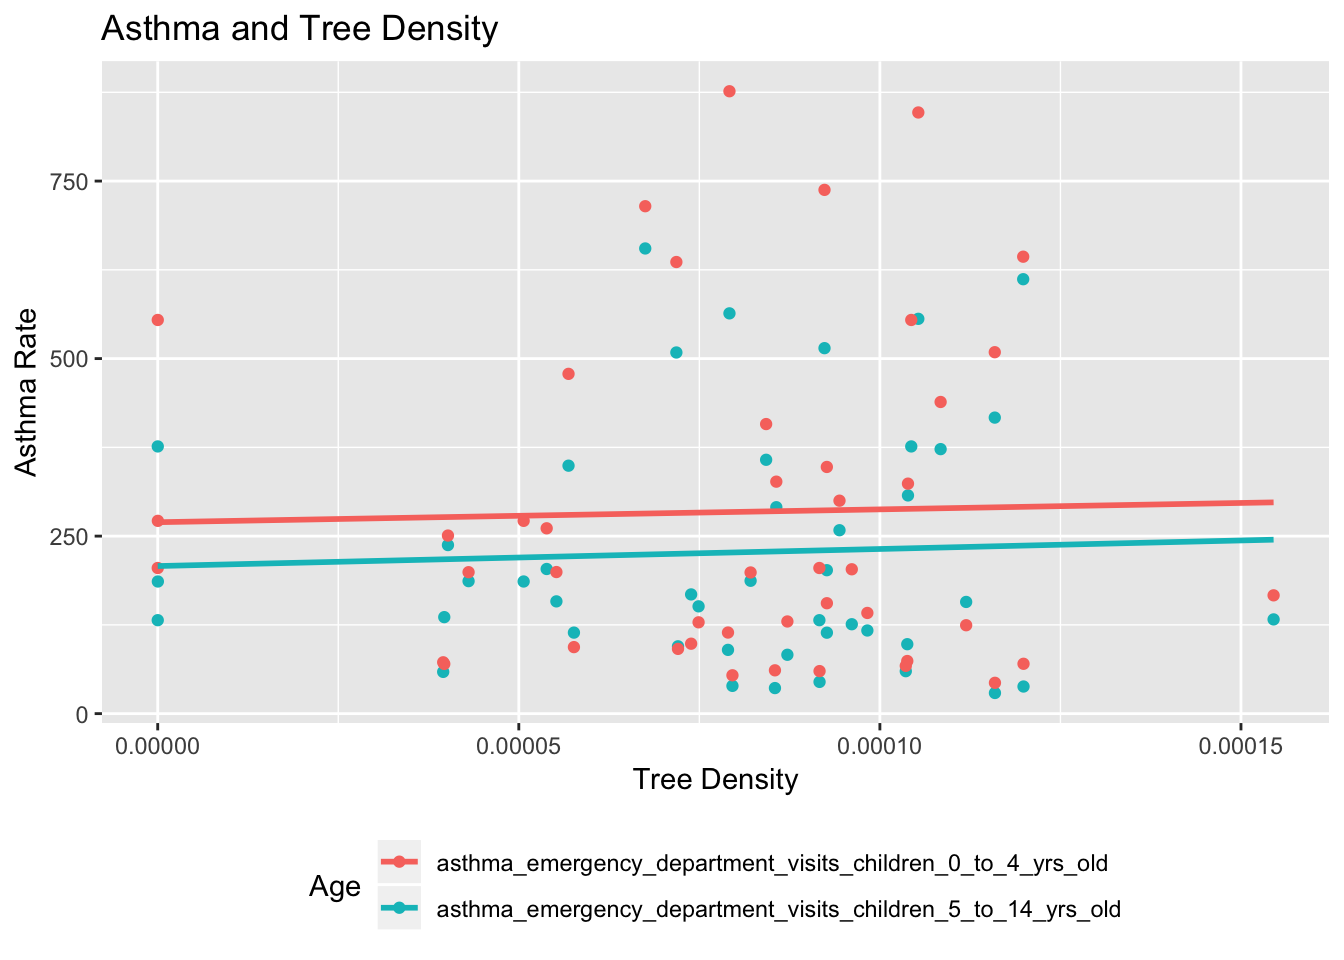
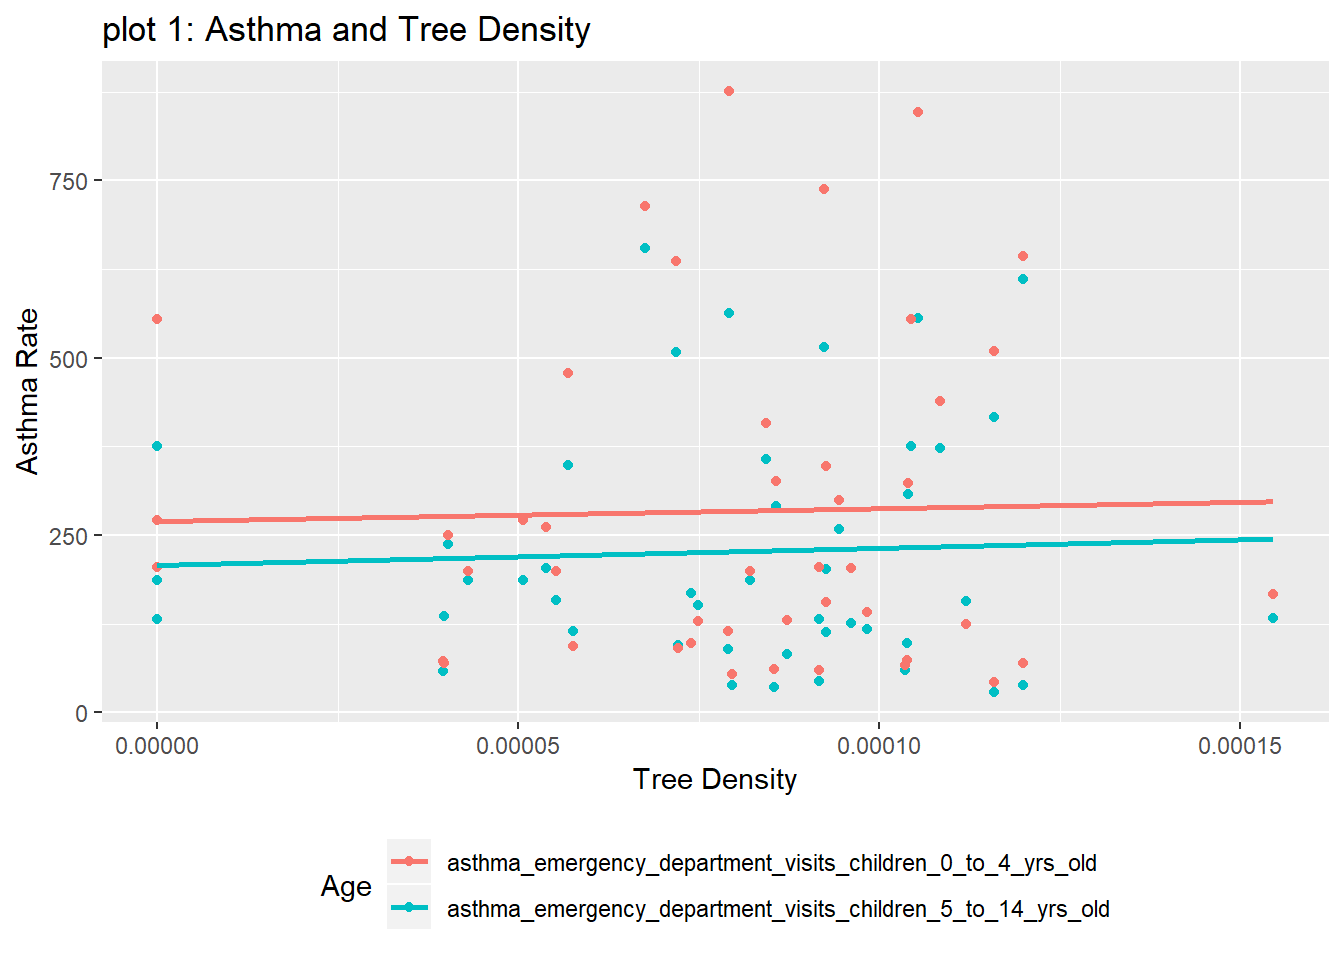
change the report

diff --git a/finalreport.html b/finalreport.html
@@ -9,7 +9,7 @@
 <meta name="generator" content="pandoc" />
 
 
-<meta name="author" content="Jingwei Ren" />
+<meta name="author" content="Jingwei Ren, Baoyi Shi, Xinyao Wu, Qi Shao" />
 
 
 <title>final report</title>
@@ -218,15 +218,12 @@ $(document).ready(function () {
 
 
 <h1 class="title toc-ignore">final report</h1>
-<h4 class="author"><em>Jingwei Ren</em></h4>
+<h4 class="author"><em>Jingwei Ren, Baoyi Shi, Xinyao Wu, Qi Shao</em></h4>
 <h4 class="date"><em>12/2/2018</em></h4>
 
 </div>
 
 
-<div id="final-report" class="section level2">
-<h2>final report</h2>
-</div>
 <div id="motivation" class="section level2">
 <h2>motivation</h2>
 <p>Over the past decades, the prevalence of asthma has increased in the urban areas with the potential effects of airflow, air quality and production of aeroallergens. Asthma is the most prevalent chronic disease among children. The disease can make breathing difficult and trigger coughing, wheezing and shortness of breath by the presence of extra mucus in narrow airways. Data on the influence of green spaces on asthma in children are inconstant. Previous research that did in Kaunas, Lithuania showed a positive association between the level of the surrounding greenness and risk of asthma in children. Their study suggested that high exposure to green spaces may increase the risk of allergic conditions and the prevalence of asthma through the effect of pollen. Another ecological design study did in New York City observed an inverse association between street tree density and the prevalence of asthma. Others have reported no relationships between greenery densities, canopy cover and asthma.</p>
@@ -246,23 +243,23 @@ $(document).ready(function () {
 <p>Our GitHub repo of the steps in this analysis can be found <a href="https://github.com/Adashaw77/p8105_final_project/blob/master/final.Rmd">here</a>.</p>
 <p>The original tree data includes variables: zip code of each neighborhoods, boroname, tree’s diameter, status(alive and dead), health, spc_common (tree species) and tree’s latitude and longitude.</p>
 <p>The asthma dataset has a total 16 variables and it includes important variables like neighborhoods, asthma rate for children from 0 to 4 years old and children from 5 to 14 years old, so2 level, poverty percent, percent of the children under 5 years living in the poverty areas, tree’s density and total asthma rate.</p>
-<div id="source" class="section level3">
-<h3>source</h3>
+<div id="data-source" class="section level3">
+<h3>Data Source</h3>
 <p>All data about asthma, poverty and air qualities was retrieved from NYC health (<a href="http://a816-dohbesp.nyc.gov/IndicatorPublic/PublicTracking.aspx" class="uri">http://a816-dohbesp.nyc.gov/IndicatorPublic/PublicTracking.aspx</a>)</p>
 <p>All data related to trees was retrieved from NYC open data (<a href="https://data.cityofnewyork.us/Environment/2015-Street-Tree-Census-Tree-Data/pi5s-9p35" class="uri">https://data.cityofnewyork.us/Environment/2015-Street-Tree-Census-Tree-Data/pi5s-9p35</a>)</p>
 <p>All neighborhood data was retrieved from (<a href="http://www.infoshare.org/misc/UHF.pdf" class="uri">http://www.infoshare.org/misc/UHF.pdf</a>)</p>
 </div>
 <div id="scraping-method-cleaning" class="section level3">
-<h3>scraping method, cleaning</h3>
+<h3>Scraping method, cleaning</h3>
 <pre class="r"><code>library(tidyverse)</code></pre>
-<pre><code>## ── Attaching packages ─────────────────────────────────────────────────── tidyverse 1.2.1 ──</code></pre>
-<pre><code>## ✔ ggplot2 3.1.0     ✔ purrr   0.2.5
-## ✔ tibble  1.4.2     ✔ dplyr   0.7.8
-## ✔ tidyr   0.8.2     ✔ stringr 1.3.1
-## ✔ readr   1.1.1     ✔ forcats 0.3.0</code></pre>
-<pre><code>## ── Conflicts ────────────────────────────────────────────────────── tidyverse_conflicts() ──
-## ✖ dplyr::filter() masks stats::filter()
-## ✖ dplyr::lag()    masks stats::lag()</code></pre>
+<pre><code>## -- Attaching packages --------------------------------------------------------------------------- tidyverse 1.2.1 --</code></pre>
+<pre><code>## √ ggplot2 3.1.0     √ purrr   0.2.5
+## √ tibble  1.4.2     √ dplyr   0.7.8
+## √ tidyr   0.8.2     √ stringr 1.3.1
+## √ readr   1.1.1     √ forcats 0.3.0</code></pre>
+<pre><code>## -- Conflicts ------------------------------------------------------------------------------ tidyverse_conflicts() --
+## x dplyr::filter() masks stats::filter()
+## x dplyr::lag()    masks stats::lag()</code></pre>
 <pre class="r"><code>library(dplyr)
 library(readr)
 library(ggplot2)
@@ -291,7 +288,7 @@ tree_df = left_join(tree_df, zipcode_uhf42, by = &quot;zipcode&quot;)
 
 mydat = rgdal::readOGR(&quot;./UHF42/UHF_42_DOHMH.shp&quot;)</code></pre>
 <pre><code>## OGR data source with driver: ESRI Shapefile 
-## Source: &quot;/Users/jingweiren/Desktop/p8105/p8105_final_project/UHF42/UHF_42_DOHMH.shp&quot;, layer: &quot;UHF_42_DOHMH&quot;
+## Source: &quot;E:\Master\Data Science\Assignments\Final\p8105_final_project\UHF42\UHF_42_DOHMH.shp&quot;, layer: &quot;UHF_42_DOHMH&quot;
 ## with 43 features
 ## It has 8 fields</code></pre>
 <pre class="r"><code>area=data.frame(uhf42_code = mydat$UHFCODE,area = mydat$SHAPE_Area) %&gt;%
@@ -354,7 +351,7 @@ final_df = left_join(asthma_air_poverty, tree_density_total)</code></pre>
 <div id="asthma-visualizations" class="section level2">
 <h2>Asthma Visualizations</h2>
 <div id="step-one" class="section level3">
-<h3>step one</h3>
+<h3>Step one</h3>
 <p>We made a plot showing the assoication between tree density and astham rate.</p>
 <pre class="r"><code>#plot between asthma and tree
 final_asthma_df = gather(final_df, key = asthma_age, value = rate, asthma_emergency_department_visits_children_0_to_4_yrs_old:asthma_emergency_department_visits_children_5_to_14_yrs_old) %&gt;%
@@ -366,24 +363,24 @@ ggplot(final_asthma_df) +
   geom_point(aes(x = tree_density, y = rate, color = asthma_age)) +
    geom_smooth(aes(x = tree_density, y = rate, color = asthma_age), method = &quot;lm&quot;,se = F) +
    labs(
-    title = &quot;Asthma and Tree Density&quot;,
+    title = &quot;plot 1: Asthma and Tree Density&quot;,
     x = &quot;Tree Density&quot;,
     y = &quot;Asthma Rate&quot;
   ) +
    theme(legend.position = &quot;bottom&quot;) +
    guides(color = guide_legend(nrow = 2)) +
    scale_color_hue(name = &quot;Age&quot;)</code></pre>
-<p><img src="finalreport_files/figure-html/unnamed-chunk-4-1.png" width="672" /> This plot showed the relationship between asthma and tree. Visually, there was a positive association between tree density and astham rate.</p>
+<p><img src="finalreport_files/figure-html/unnamed-chunk-4-1.png" width="672" /> This plot 1 showed the relationship between asthma and tree. Visually, there was a positive association between tree density and astham rate.</p>
 </div>
 <div id="step-two" class="section level3">
-<h3>step two</h3>
+<h3>Step two</h3>
 <p>Other factors may also impact the astham rate. We made plots showing the association between astham and air qualities (fine particulate matter (PM2.5), and ambient concentrations of sulfur dioxide (SO2) ) and the association between asthma and poverty rate.</p>
 <pre class="r"><code>#plot between asthma and so2
 ggplot(final_asthma_df) +
    geom_point(aes(x = sulfur_dioxide_so2, y = rate, color = asthma_age))+
    geom_smooth(aes(x = sulfur_dioxide_so2, y = rate, color = asthma_age), method = &quot;lm&quot;, se = F) +
    labs(
-    title = &quot;Asthma and Sulfur Dioxide&quot;,
+    title = &quot;plot 2: Asthma and Sulfur Dioxide&quot;,
     x = &quot;Sulfur Dioxide Average&quot;,
     y = &quot;Asthma Rate&quot;
   ) +
@@ -396,7 +393,7 @@ ggplot(final_asthma_df) +
    geom_point(aes(x = fine_particulate_matter_pm2_5, y = rate, color = asthma_age))+
    geom_smooth(aes(x = fine_particulate_matter_pm2_5, y = rate, color = asthma_age), method = &quot;lm&quot;, se = F) +
    labs(
-    title = &quot;Asthma and PM2.5&quot;,
+    title = &quot;plot 3: Asthma and PM2.5&quot;,
     x = &quot;PM2.5 Average&quot;,
     y = &quot;Asthma Rate&quot;
   ) +
@@ -409,30 +406,30 @@ ggplot(final_asthma_df) +
    geom_point(aes(x = poverty, y = rate, color = asthma_age))+
    geom_smooth(aes(x = poverty, y = rate, color = asthma_age), method = &quot;lm&quot;, se = F) +
    labs(
-    title = &quot;Asthma and Poverty&quot;,
+    title = &quot;plot 4: Asthma and Poverty&quot;,
     x = &quot;Poverty Percent&quot;,
     y = &quot;Asthma Rate&quot;
   ) +
    theme(legend.position = &quot;bottom&quot;) +
    guides(color = guide_legend(nrow = 2)) +
    scale_color_hue(name = &quot;Age&quot;)</code></pre>
-<p><img src="finalreport_files/figure-html/unnamed-chunk-5-3.png" width="672" /> plot1 showed the relationship between asthma rate and so2. plot2 showed the relationship between astham rate rate and pM.25 plot3 showed the relationship between asthma and poverty. Visually, there was a positive association between astham rate and SO2, PM 2.5 and poverty level.</p>
+<p><img src="finalreport_files/figure-html/unnamed-chunk-5-3.png" width="672" /> plot2 showed the relationship between asthma rate and so2. plot3 showed the relationship between astham rate rate and pM.25 plot4 showed the relationship between asthma and poverty. Visually, there was a positive association between astham rate and SO2, PM 2.5 and poverty level.</p>
 </div>
 <div id="step-three" class="section level3">
-<h3>step three</h3>
+<h3>Step three</h3>
 <p>We are interested in seeing whether asthma rate is different between children from 0 to 4 years old and children from 5 to 14 years old in 42 neighborhoods in new york city.</p>
 <pre class="r"><code>#plot between asthma 0-4 and asthma 5-14 in each UHF42
 ggplot(final_asthma_df) +
   geom_bar(aes(x = geo_entity_name, y = rate, fill = asthma_age), stat = &quot;identity&quot;, position = &quot;dodge&quot;) +
    labs(
-    title = &quot;Asthma Rate In Each Entity&quot;,
+    title = &quot;plot 5: Asthma Rate In Each Entity&quot;,
     x = &quot;Entity Name&quot;,
     y = &quot;Asthma Rate&quot;
   ) +
    theme(legend.position = &quot;bottom&quot;, axis.text.x = element_text(angle = 75, hjust = 1)) +
    guides(fill = guide_legend(nrow = 2)) +
    scale_fill_hue(name = &quot;Age&quot;) </code></pre>
-<p><img src="finalreport_files/figure-html/unnamed-chunk-6-1.png" width="672" /> Plot showed that children from 0 to 4 years have higher asthma rate compared to children from 5 to 14 years old.</p>
+<p><img src="finalreport_files/figure-html/unnamed-chunk-6-1.png" width="672" /> Plot 5 showed that children from 0 to 4 years have higher asthma rate compared to children from 5 to 14 years old.</p>
 </div>
 </div>
 <div id="tree-visualizations" class="section level2">
@@ -443,7 +440,7 @@ ggplot(final_asthma_df) +
   geom_point(aes(x = sulfur_dioxide_so2, y = tree_density)) +
   geom_smooth(aes(x = sulfur_dioxide_so2, y = tree_density), method = &quot;lm&quot;, se = F) +
    labs(
-    title = &quot;Tree Density and Sulfur Dioxide&quot;,
+    title = &quot;plot 6: Tree Density and Sulfur Dioxide&quot;,
     x = &quot;Sulfur Dioxide Average&quot;,
     y = &quot;Tree Density&quot;
   ) </code></pre>
@@ -453,14 +450,14 @@ ggplot(final_asthma_df) +
   geom_point(aes(x = fine_particulate_matter_pm2_5, y = tree_density)) +
   geom_smooth(aes(x = fine_particulate_matter_pm2_5, y = tree_density), method = &quot;lm&quot;, se = F) +
    labs(
-    title = &quot;Tree Density and PM2.5&quot;,
+    title = &quot;plot 7: Tree Density and PM2.5&quot;,
     x = &quot;PM2.5 Average&quot;,
     y = &quot;Tree Density&quot;
   ) </code></pre>
-<p><img src="finalreport_files/figure-html/unnamed-chunk-7-2.png" width="672" /> plot 1 showed the association between tree density and so2. plot 2 showed the association between tree density and pm 2.5 Visually, there was a positive association between tree density and air quality factors.</p>
+<p><img src="finalreport_files/figure-html/unnamed-chunk-7-2.png" width="672" /> plot 6 showed the association between tree density and so2. plot 7 showed the association between tree density and pm 2.5 Visually, there was a positive association between tree density and air quality factors.</p>
 </div>
 <div id="statistical-analyses" class="section level2">
-<h2>statistical analyses</h2>
+<h2>Statistical analyses</h2>
 <pre class="r"><code># mlr showing the relationship between asthma rate of kids from 0 to 4 years and tree density, so2 levels, percent of the children under 5 years living in the poverty areas
 summary(lm(asthma_emergency_department_visits_children_0_to_4_yrs_old~tree_density+sulfur_dioxide_so2+children_under_5_years_old_in_poverty,data=final_df)) %&gt;%
   broom::tidy() %&gt;%
@@ -555,7 +552,7 @@ summary(lm(asthma_emergency_department_visits_children_5_to_14_yrs_old~tree_dens
 <p>Based on the multiple linear regression models, all the factors are significant except tree density ( p value is 0.86, 0.64). This indicated that there are associations between asthma rate of kids and so2 and poverty levels.</p>
 </div>
 <div id="additional-analysis" class="section level2">
-<h2>additional analysis</h2>
+<h2>Additional analysis</h2>
 <p>We tested the association between astham rate and all pollutes including ozone, black carbon, PM 2.5, NO, NO2, SO2.</p>
 <pre class="r"><code>#SLR:choose the pollutes associated with asthma
 o3_p1 = summary(lm(asthma_emergency_department_visits_children_0_to_4_yrs_old~ozone_o3, data=final_df))$coefficients[2,4]
@@ -628,8 +625,12 @@ data.frame(Pollute = c(&quot;Ozone&quot;, &quot;Black Carbon&quot;, &quot;PM2.5&
 </tbody>
 </table>
 <pre class="r"><code>#based on p values, we choose SO2</code></pre>
-<p>The result showed that only SO2 had an association with asthma, since the p value is lower than 0.05. All the other air quality factors are not significantly related to children asthma rate. ## Discussion</p>
-<p>Our main goal is to discuss the relationship between tree density in New York city and children asthma rate in 2015. We built two multilinear regression models, investigating the relationship between asthma rate and tree density, SO2 and poverty level for childern from 0 to 4 years old and childern from 5 to 14 years old . The result showed that exposure to air pollution (SO2) (P value = 0.048, 0.0116) and increased poverty level(P value = 6.41e-09,2.83e-09) could contribute to excess asthma in urban areas. All the factors are significant except tree density ( p value = 0.86, 0.64). We listed some possible reasons that explained why no obvious association was shown between tree density and asthma. One possible explanation is season. In the spring and summer months, increasing tree densities might have a positive impact on asthma rate. Pollen could be an allergen that give some people sneezing fits and watery eyes, which could indirectly cause an asthma attack in others. However, in the fall and winter months, increasing tree densities might decrease the asthma rate through the effect on local air quality. Those two situations might counteract each other and result in the conclusion that overall, there was no association between tree density in New York city and children asthma rate in 2015.</p>
+<p>The result showed that only SO2 had an association with asthma, since the p value is lower than 0.05. All the other air quality factors are not significantly related to children asthma rate.</p>
+</div>
+<div id="discussion" class="section level2">
+<h2>Discussion</h2>
+<p>Our main goal is to discuss the relationship between tree density in New York city and children asthma rate in 2015. We built two multilinear regression models, investigating the relationship between asthma rate and tree density, SO2 and poverty level for childern from 0 to 4 years old and childern from 5 to 14 years old . The result showed that exposure to air pollution (SO2) (P value = 0.048, 0.0116) and increased poverty level(P value = 6.41e-09,2.83e-09) could contribute to excess asthma in urban areas. All the factors are significant except tree density ( p value = 0.86, 0.64). We listed some possible reasons that explained why no obvious association was shown between tree density and asthma. One possible explanation is season. In the spring and summer months, increasing tree densities might have a positive impact on asthma rate. Pollen could be an allergen that give some people sneezing fits and watery eyes, which could indirectly cause an asthma attack in others. However, in the fall and winter months, increasing tree densities might decrease the asthma rate through the effect on local air quality. Those two situations might counteract each other and result in the conclusion that overall, there was no association between tree density in New York city and children asthma rate in 2015. Other factors might also influence the astham rate, including sociodemographic characteristics, population density and hospitals amount in the neighborhood. After adjustment, the assoication between tree density and hospitalisations as a result of asthma might no longer significant.</p>
+<p>We were also interested to see whether there was a difference in asthma rate between children from 0 to 4 years old and children from 5 to 14 years old. The result from plot 5 showed that children from 0 to 4 years have higher asthma rate compared to children from 5 to 14 years old. A positive relationship between tree density and air quality factors in 42 neighborhood in New York city was reported. Tree density increases as CO2 and PM 2.5 levels increase. One possible explanation for this could be that people’s awareness of environment increases as the air quality in one area decreases. Therefore, we saw a positive result. In order to verify this, we could make plots detecting the change of air quality’s levels throughout couple years.</p>
 </div>
 
 
